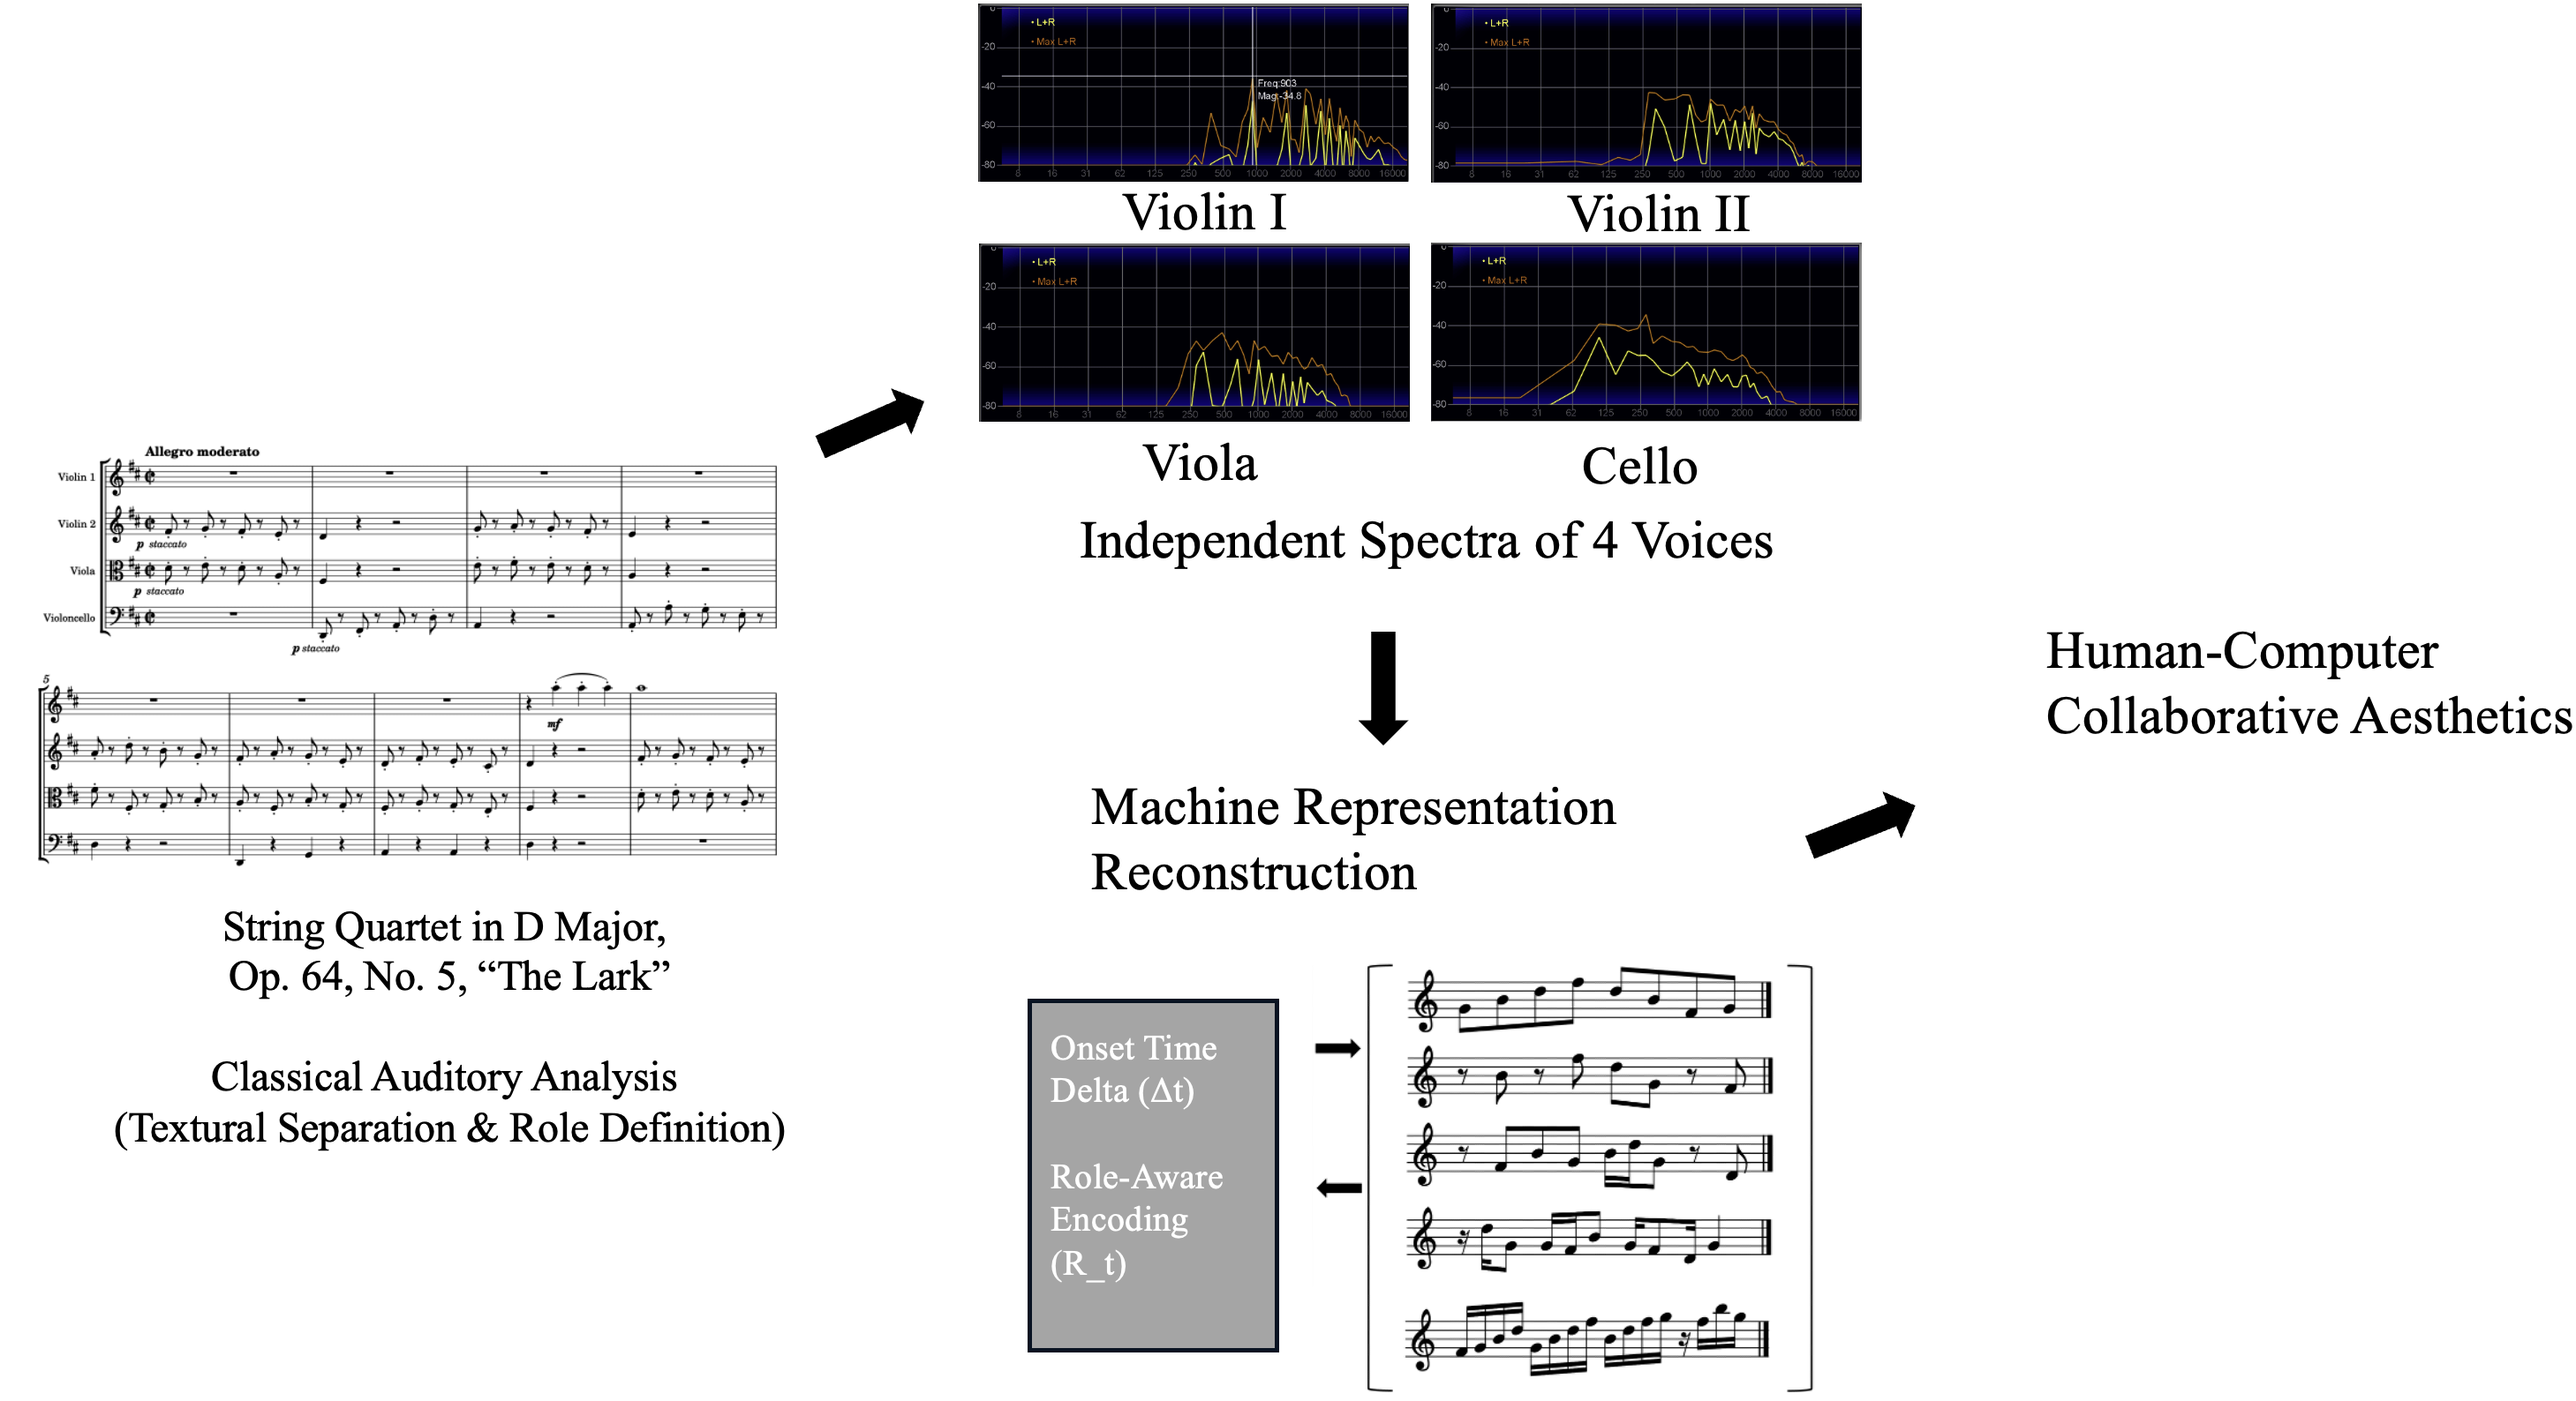
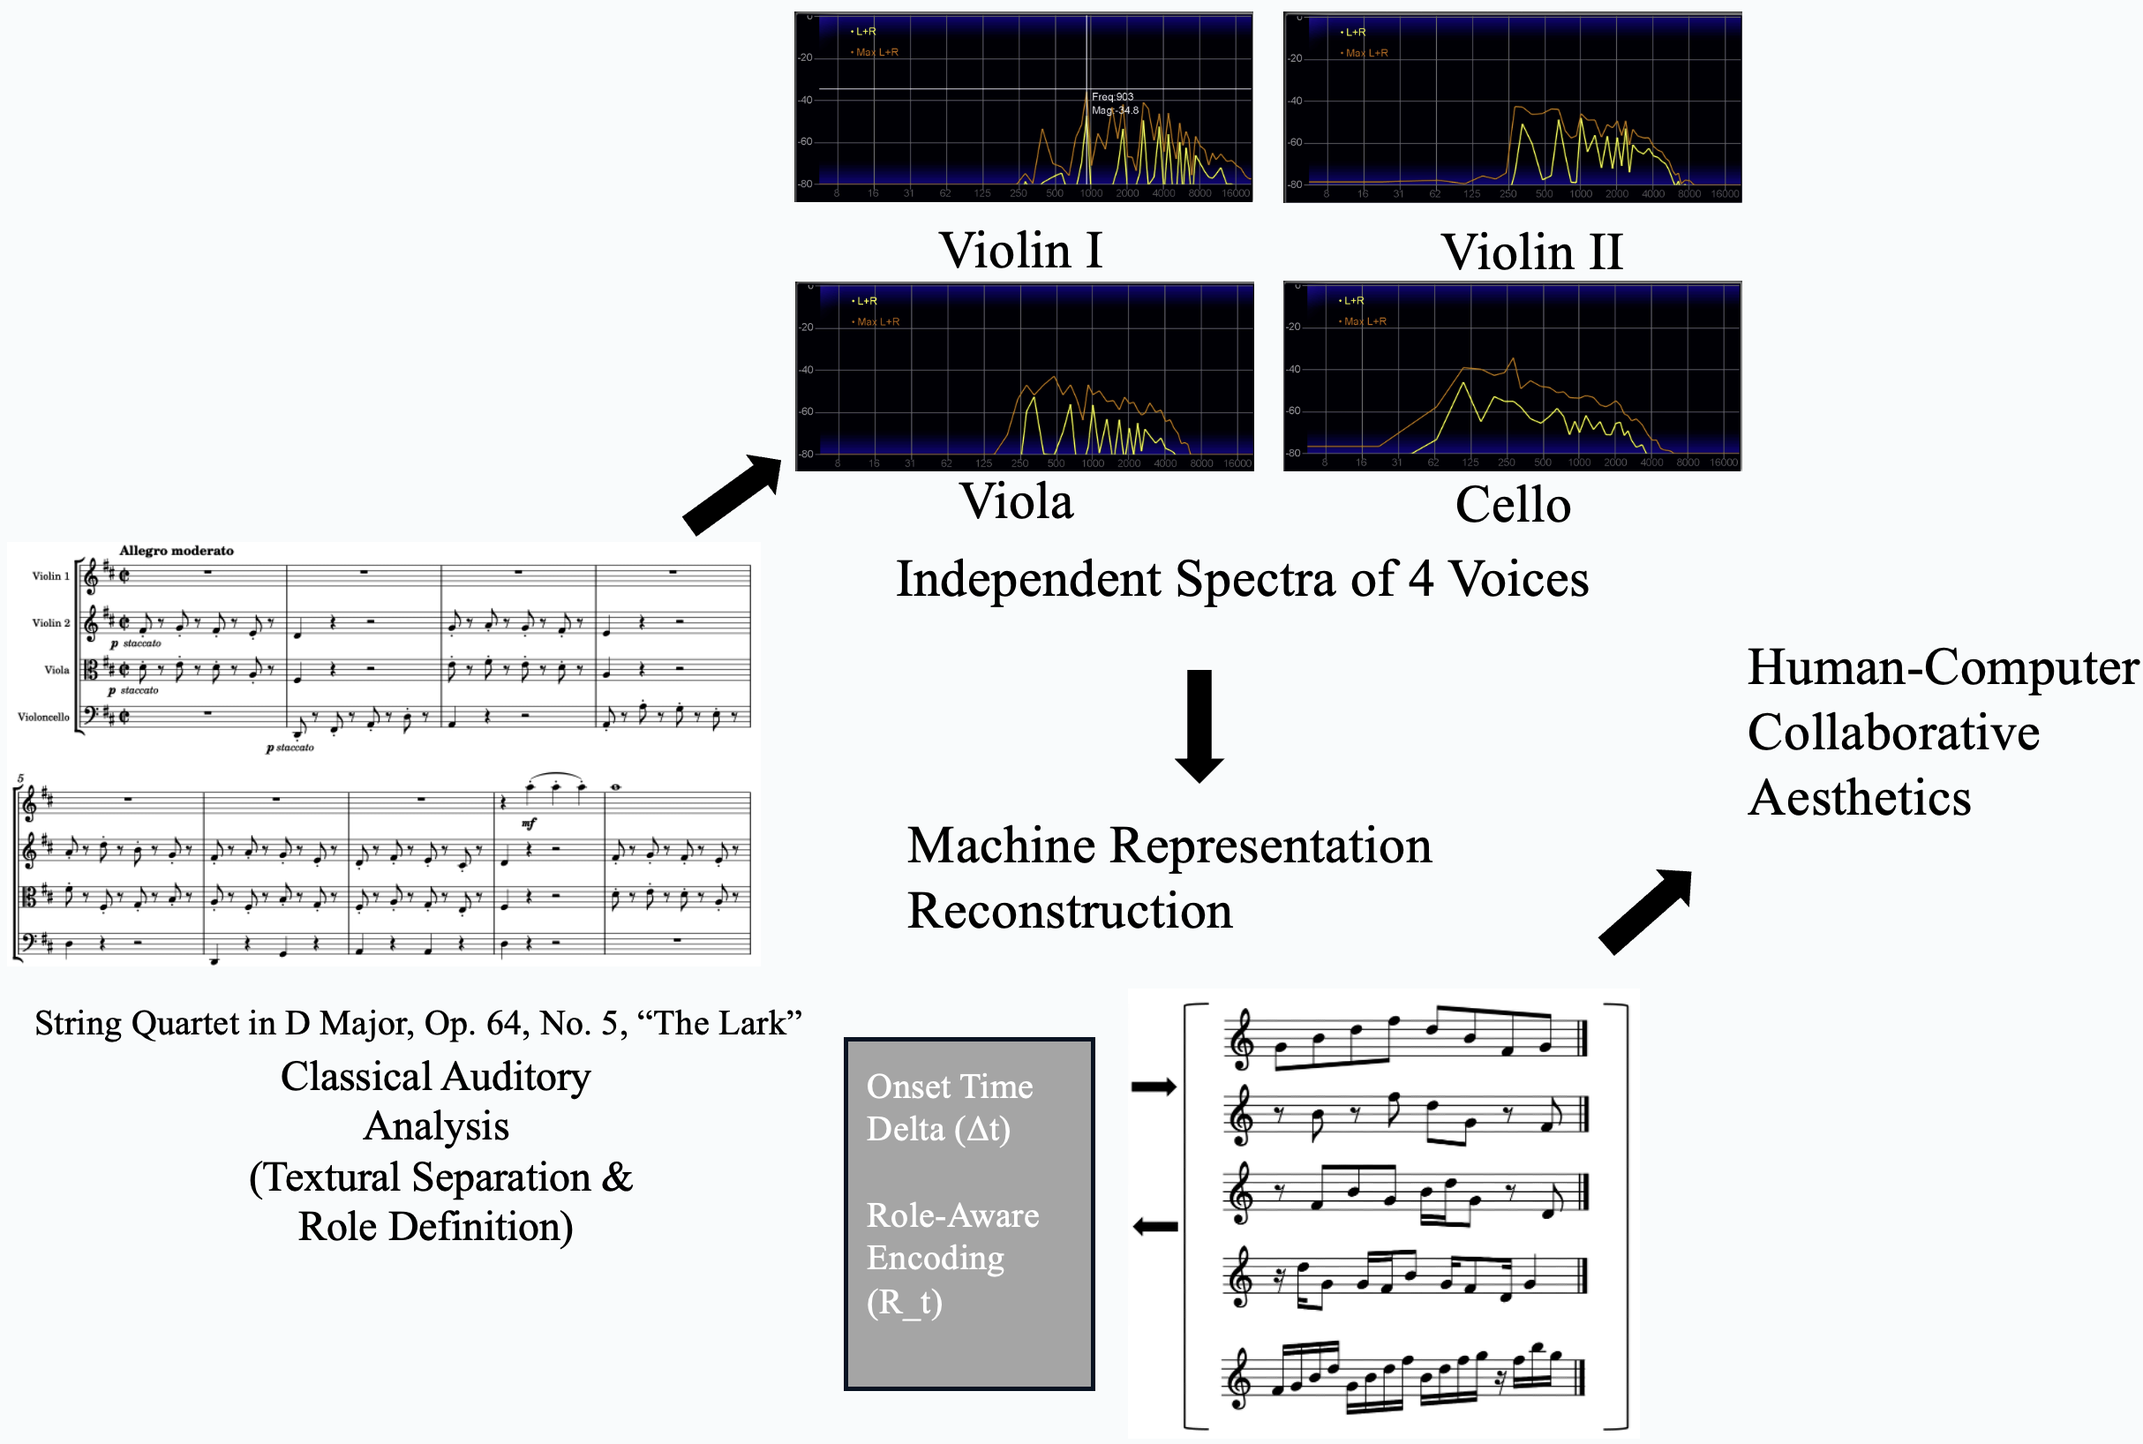
调整图片大小

diff --git a/assets/css/custom.css b/assets/css/custom.css
@@ -737,6 +737,17 @@ html {
   border-radius: 0;
 }
 
+.media-large-figure img {
+  width: 112%;
+  max-width: none;
+  max-height: 650px;
+  transform: translateX(-6%);
+}
+
+.publication-figure.media-large-figure img {
+  max-height: 650px;
+}
+
 .personal-signature p {
   font-size: 1.08rem;
   line-height: 1.9;
@@ -837,6 +848,12 @@ html {
   .publication-figure img,
   .portfolio-feature-figure img {
     max-height: none;
+  }
+
+  .media-large-figure img {
+    width: 100%;
+    max-width: 100%;
+    transform: none;
   }
 
   .cv-custom-hero {

diff --git a/content/_index.md b/content/_index.md
@@ -242,7 +242,7 @@ sections:
                 <li>从古典音乐分析、电子声学映射与AI符号化生成之间建立逻辑闭环，为构建具备“社交属性”与“他者感知”的人机协同音乐系统提供理论基础。</li>
               </ul>
             </div>
-            <figure class="publication-figure">
+            <figure class="publication-figure media-large-figure">
               <div class="publication-links publication-links-stacked"><div class="publication-status">状态：预印本投稿中</div><div class="publication-link-row"><span>Link:</span><a class="paper-link icon-only-link" href="https://arxiv.org/abs/2607.05902" target="_blank" rel="noopener noreferrer" aria-label="Paper"></a></div></div>
               <img src="/hydan.png" alt="Haydn The Lark machine representation preview">
             </figure>
@@ -406,7 +406,7 @@ sections:
               <p><strong>Verification:</strong> Review record verified and archived on Web of Science (Clarivate).</p>
               <p><strong>Web of Science Author Profile:</strong> <a href="https://www.webofscience.com/wos/author/record/OFO-5144-2025" target="_blank" rel="noopener noreferrer">OFO-5144-2025</a></p>
             </div>
-            <figure class="portfolio-feature-figure">
+            <figure class="portfolio-feature-figure media-large-figure">
               <div class="publication-links publication-links-stacked"><div class="publication-status">Status: WoS Verified</div><div class="publication-link-row"><span>Link:</span><a class="wos-link icon-only-link" href="https://www.webofscience.com/wos/author/record/OFO-5144-2025" target="_blank" rel="noopener noreferrer" aria-label="Web of Science"></a></div></div>
               <img src="/Web-of-Science1.jpg" alt="Web of Science verified peer review record">
             </figure>
@@ -434,7 +434,7 @@ sections:
                 <li>Employs GRM Tools, Waves, Zynaptiq, and FabFilter VST effects to modulate, distort, and transform diverse sound materials into an evolving electroacoustic texture.</li>
               </ul>
             </div>
-            <figure class="portfolio-feature-figure">
+            <figure class="portfolio-feature-figure media-large-figure">
               <div class="publication-links publication-links-stacked"><div class="publication-status">Status: Video</div><div class="publication-link-row"><span>Link:</span><a class="youtube-link icon-only-link" href="https://www.youtube.com/watch?v=NMNzyp__wWI" target="_blank" rel="noopener noreferrer" aria-label="YouTube"></a></div></div>
               <img src="/Whale-Fall-Layered-Shadows.jpeg" alt="Whale Fall · Layered Shadows preview">
             </figure>
